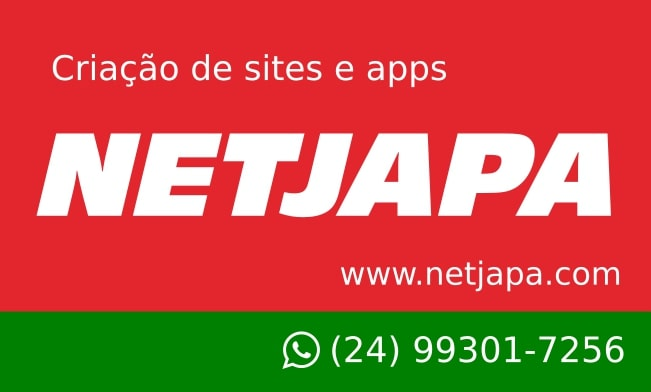
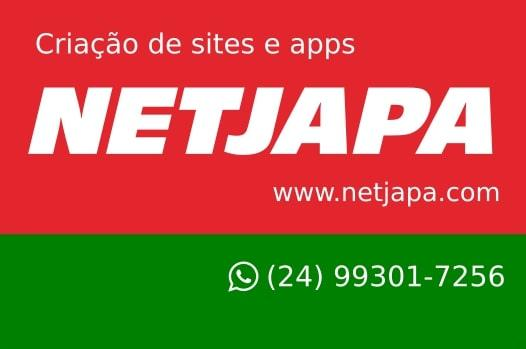
dneeude

diff --git a/_includes/head.html b/_includes/head.html
@@ -6,7 +6,7 @@
   mobile apps, aplicativos para celular,
   aplicativos android, site, app, aplicativo, e-commerce, loja virtual"
   />
-  <meta property="og:image" content="{{ site.url }}/photos/desenhando.jpg" />
+  <meta property="og:image" content="{{ site.url }}/photos/netjapa.jpg" />
   <meta charset="utf-8" />
   <title>
     {% if page.section == "home" %}{{ site.title }}{% else %}{{ page.title |
